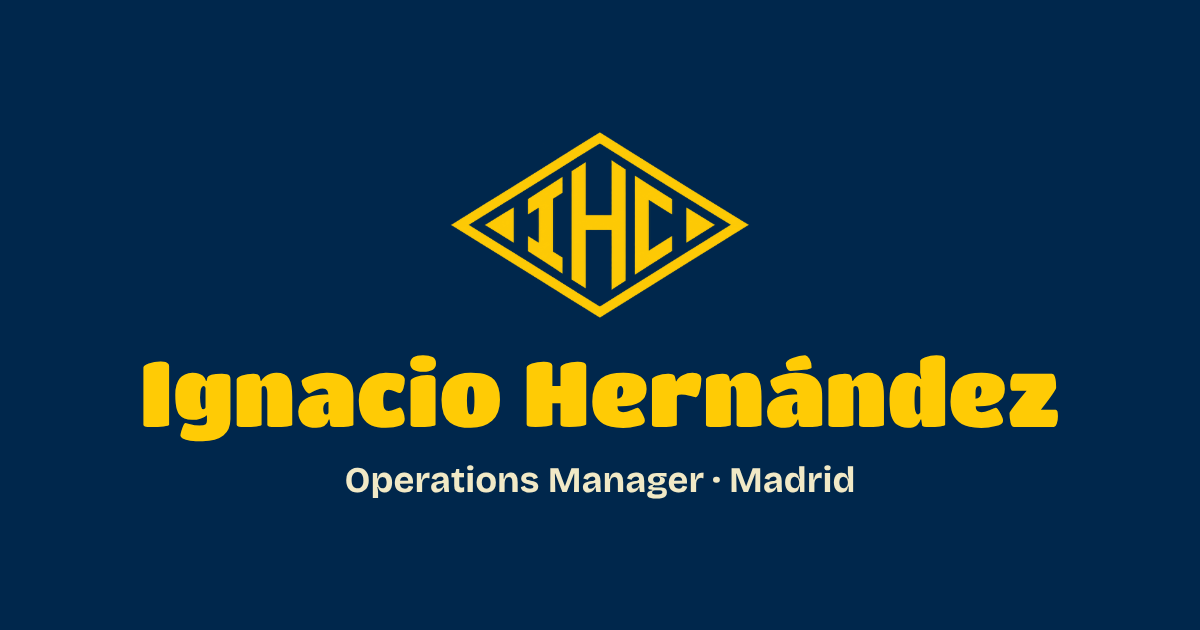
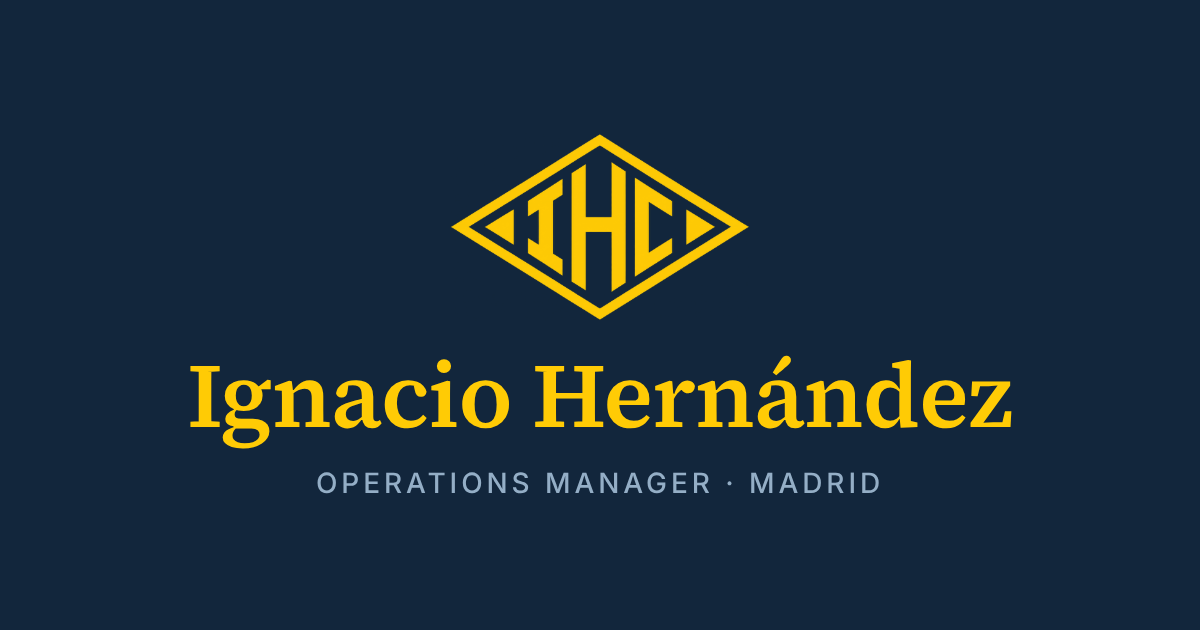
Preview social con nueva tipografía y azul
Claude-Session: https://claude.ai/code/session_01XkbjYD933stkYRNXZsd1vB

Changed region(s): [[0.0925, 0.5429, 0.8942, 0.7238], [0.37, 0.2111, 0.6167, 0.5127], [0.2467, 0.7238, 0.74, 0.8143]]

diff --git a/index.html b/index.html
@@ -13,11 +13,11 @@
 <meta property="og:title" content="Ignacio Hernández · Operations Manager">
 <meta property="og:description" content="I turn complex, unstructured operations into systems that work.">
 <meta property="og:url" content="https://nachoh23-lgtm.github.io/">
-<meta property="og:image" content="https://nachoh23-lgtm.github.io/img/og.png">
+<meta property="og:image" content="https://nachoh23-lgtm.github.io/img/og.png?v=2">
 <meta property="og:image:width" content="1200">
 <meta property="og:image:height" content="630">
 <meta name="twitter:card" content="summary_large_image">
-<meta name="twitter:image" content="https://nachoh23-lgtm.github.io/img/og.png">
+<meta name="twitter:image" content="https://nachoh23-lgtm.github.io/img/og.png?v=2">
 <style>
 @font-face{font-family:"Source Serif 4";font-weight:400;font-display:swap;src:url(fonts/source-serif-4-latin-400-normal.woff2) format("woff2")}
 @font-face{font-family:"Source Serif 4";font-weight:600;font-display:swap;src:url(fonts/source-serif-4-latin-600-normal.woff2) format("woff2")}
